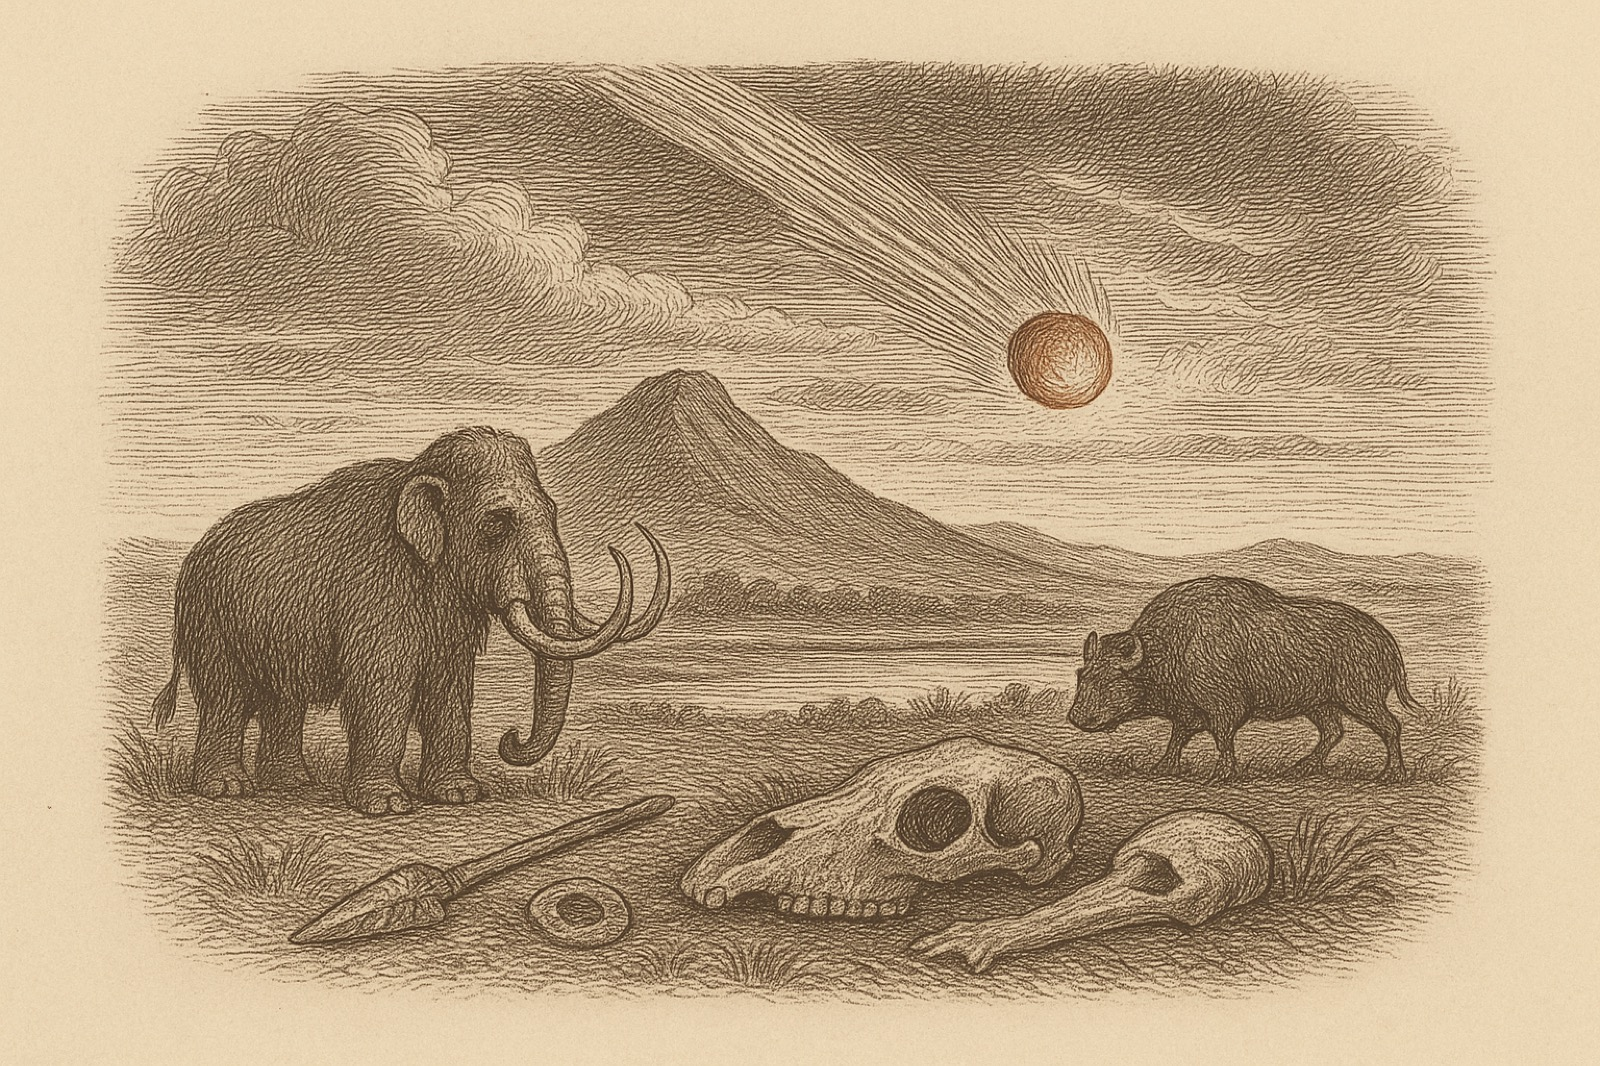
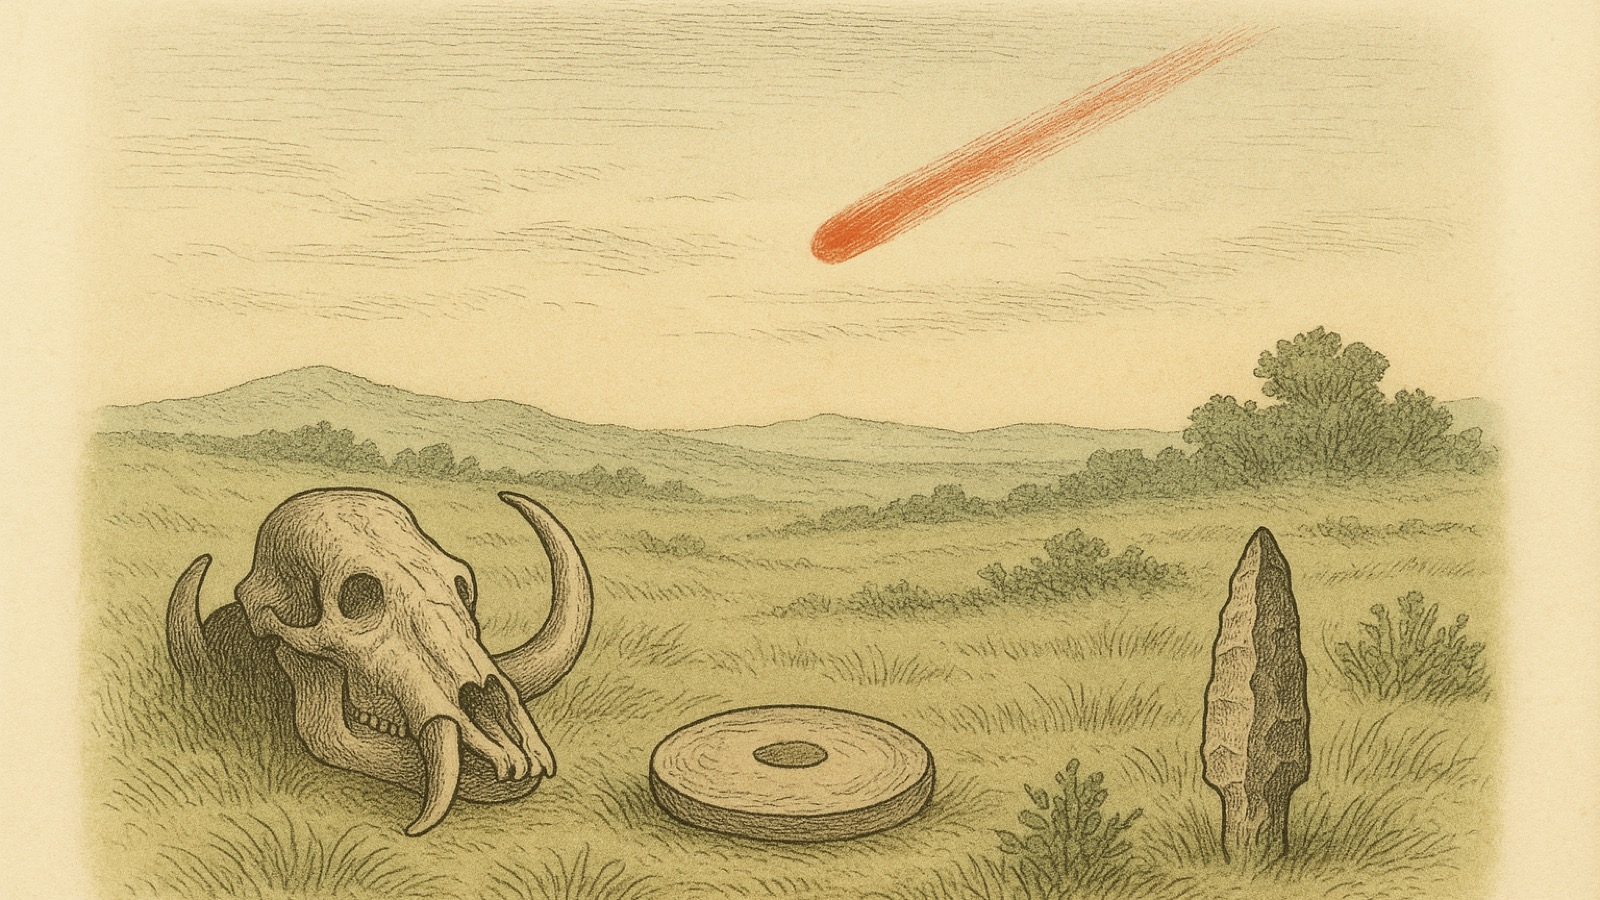
Art: regenerate all six case covers in style-v2 hand-tinted color (#18)
Reader feedback: every cover shared the same monochrome tone, making the
case grid read dull. style-v2 keeps the expedition-lithograph engraving
language but hand-tints each cover in its own subdued mineral pigment —
sandstone ochre (geopolymer), anatomical madder (vasocomputation),
Prussian night blue (transients), amethyst-and-gold (Orch OR), sage and
vermilion (YDIH), verdigris (MPI) — variety that still harmonizes on the
paper-toned page. Covers now ship at exactly 16:9 with drawn plate frames
cropped out, and the case card renders aspect-16/9 so the key emblems
(comet, star, butterfly) are never amputated by a display-time crop.
Manifests record the new prompts, styleVersion, and runId; the image
schema gains an optional runId field for generated art.

diff --git a/src/domain/schema.ts b/src/domain/schema.ts
@@ -333,6 +333,8 @@ export const ImageSchema = z
     prompt: z.string().optional(),
     styleVersion: z.string().optional(),
     model: z.string().optional(),
+    /** Generated images only: the generation run that produced the file. */
+    runId: z.string().optional(),
     /** Plates only. */
     plateNumber: z.number().int().positive().optional(),
     depicts: z.string().optional(),

diff --git a/src/components/CaseCard.tsx b/src/components/CaseCard.tsx
@@ -28,7 +28,7 @@ export function CaseCard({
             src={assetPath(cover.file)}
             alt={cover.alt}
             loading="lazy"
-            className="block w-full aspect-[21/9] object-cover"
+            className="block w-full aspect-[16/9] object-cover"
           />
         </div>
       ) : null}

diff --git a/docs/IMAGE_STYLE.md b/docs/IMAGE_STYLE.md
@@ -1,8 +1,8 @@
 # Aletheia Image Style Guide
 
-Current style version: **style-v1** (2026-08-22). Bump the version when the
-canonical prompt changes, so regenerated art stays consistent within a version
-and diffs between versions are deliberate.
+Current style version: **style-v2** (2026-08-22, hand-tinted color). Bump the
+version when the canonical prompt changes, so regenerated art stays consistent
+within a version and diffs between versions are deliberate.
 
 ## The two image registers — never confused
 
@@ -35,14 +35,79 @@ Corollaries:
 - Diagrams (ladder, timelines) stay hand-built SVG/CSS — never raster,
   never generated.
 
-## House style: expedition lithograph (style-v1)
+## House style: hand-tinted expedition lithograph (style-v2)
 
 The signature is a 19th-century scientific expedition lithograph /
 copperplate engraving — the visual language of Darwin-era journals: patient,
 exact, beautiful because it is careful. It says "we looked closely" in a way
 no stock photo can.
 
-### Canonical prompt template (style-v1)
+style-v2 keeps the engraving language of style-v1 but replaces the
+monochrome palette lock with **hand-tinted full color**: think
+chromolithographs and hand-colored plates from a vintage scientific atlas.
+Full polychrome imagery, but only muted mineral pigments — ochres, slate
+blues, sage greens, oxblood, faded vermilion — faded as if printed in 1870,
+never saturated modern digital color. Each case cover gets its own dominant
+tone suited to its subject (assigned below), so the case grid reads as one
+atlas with plates from different expeditions rather than six copies of the
+same plate. What stays locked: the engraving linework, the cream paper
+(`#f6f1e8`), the quiet composition, and the muted-pigment ceiling on
+saturation.
+
+### Canonical prompt template (style-v2)
+
+> Hand-tinted 19th-century scientific expedition lithograph, chromolithograph
+> plate from a vintage natural-history atlas. **[SUBJECT — one or two
+> sentences, allegorical or typological, never a specific evidence scene].**
+> Fine copperplate cross-hatching and stipple engraving beneath soft,
+> translucent hand-applied watercolor washes. Full color in subdued antique
+> mineral pigments — **[CASE TONE — dominant pigments and where they sit]** —
+> over warm-black ink linework on aged warm cream paper (#f6f1e8). Colors
+> muted and slightly faded as if printed in 1870; never saturated modern
+> digital color, no gradients, no glow. Darwin-era natural-history journal
+> plate aesthetic, generous plain paper margins, quiet composition.
+> Absolutely no text, no labels, no captions, no border frame lines.
+> Unmistakably a hand-tinted engraving — stylized editorial artwork, not
+> photorealistic, no photograph.
+
+### Case tone assignments (style-v2)
+
+Chosen to suit each subject and to harmonize as a set on the paper-toned
+homepage grid: two warms, two cools, two greens, all at the same faded
+mineral-pigment saturation. Defined in `scripts/generate-case-art.mjs`
+(`CASE_TONES`); keep the two in sync.
+
+| case | tone | pigments |
+|---|---|---|
+| `geopolymer` | Sandstone ochre | yellow ochre and raw sienna stone, umber shadows, pale grey-blue sky wash |
+| `vasocomputation` | Anatomical madder | madder red and oxblood vessels, faded rose flesh tones, ivory bone, faint sage |
+| `transients` | Prussian night | deep Prussian and slate blue night sky, silver-cream stars, small warm brass accent on the instrument |
+| `orch-or` | Amethyst and gold | muted violet-grey and indigo forms, one antique-gold shaft of light |
+| `ydih` | Sage and vermilion | sage and olive-green plain, buff sky, one faded vermilion comet streak |
+| `mpi` | Verdigris | verdigris and muted teal, grey-green shadows, one pale sulfur-yellow butterfly accent |
+
+Rules of thumb:
+
+- **Paper is still the site token** `#f6f1e8`; linework stays warm-black.
+- One dominant tone per piece, one small counter-accent at most. If a
+  candidate looks like modern digital color — saturated, glowing, gradient —
+  reject it and regenerate.
+- Ban text in the image (models garble it; captions belong in HTML).
+- Covers ship at exactly 16:9 — the case-grid card renders `aspect-[16/9]`,
+  so what you crop is what readers see. The model often draws its own plate
+  frame despite the prompt; strip the frame line and paper margin, then cut
+  the 16:9 band that keeps the composition's key emblems (comet, star,
+  butterfly) — they tend to sit in the upper third.
+- Post-process: crop as above, resize to ≤1600 px wide, JPEG quality ~75
+  (`sips -s format jpeg -s formatOptions 75 -Z 1600 in.png --out out.jpg`).
+
+### Superseded: style-v1 (monochrome)
+
+The original house style was the same engraving language with a locked
+monochrome palette. Site-level art (hero, textures) still uses it and does
+not need regeneration; new covers should use style-v2.
+
+### Canonical prompt template (style-v1, superseded for covers)
 
 > 19th-century scientific expedition lithograph, copperplate engraving.
 > **[SUBJECT — one or two sentences, allegorical or typological, never a
@@ -72,7 +137,10 @@ Rules of thumb:
 | `IMG-SITE-HERO` | brand | parted strata, light, standing stone (unconcealment) |
 | `IMG-SITE-DIVIDER-STRATA` | texture | sedimentary strata band with copper seam |
 | `IMG-SITE-TAILPIECE` | texture | balance scale weighing stone against feather |
-| `IMG-GEO-COVER` | cover | polygonal megalithic wall, copper keystone |
+
+(All six case covers were regenerated in style-v2 on 2026-08-22; run
+`cover-style-v2-2026-08-22`, recorded per image in each case's
+`images.yaml`.)
 
 ## Plates: sourcing and treatment
 
